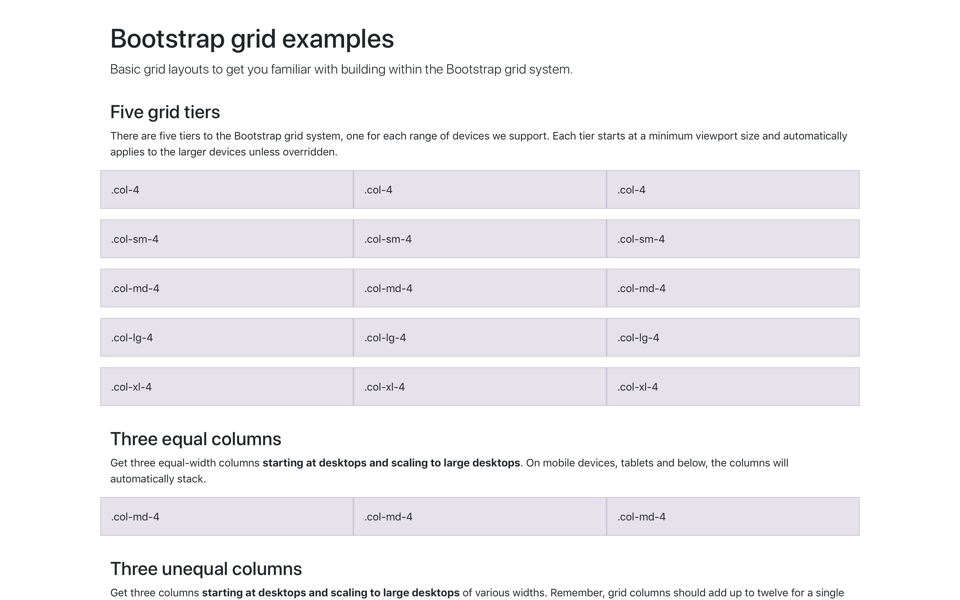
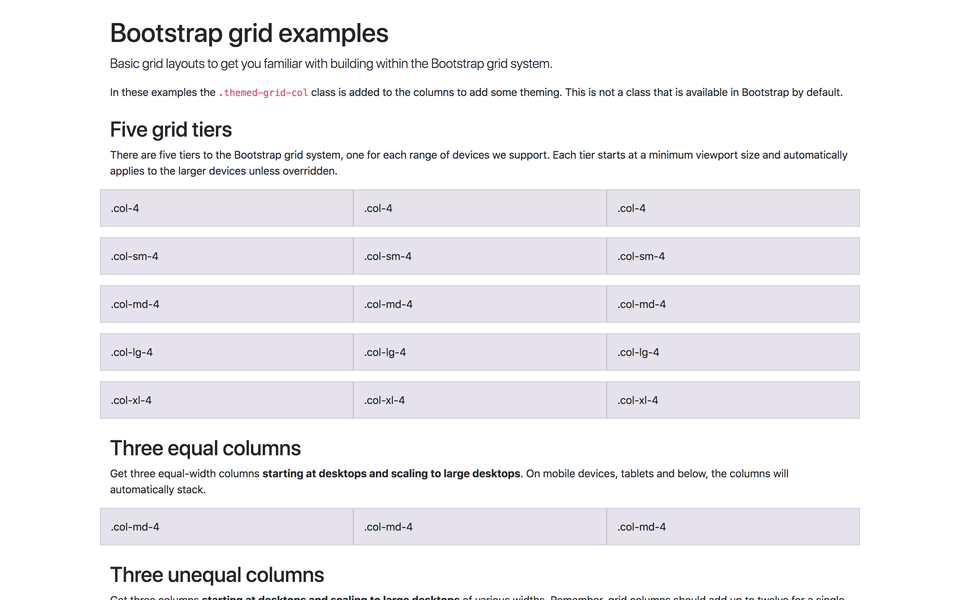
Improve Grid examples. (#26808)
Removes the grid.css file of the grid example and makes use of utility classes

Changed region(s): [[0.0938, 0.03, 0.9062, 1.0]]

diff --git a/site/docs/4.1/examples/grid/index.html b/site/docs/4.1/examples/grid/index.html
@@ -16,118 +16,122 @@
     <link href="grid.css" rel="stylesheet">
   </head>
 
-  <body>
+  <body class="py-4">
     <div class="container">
 
       <h1>Bootstrap grid examples</h1>
       <p class="lead">Basic grid layouts to get you familiar with building within the Bootstrap grid system.</p>
+      <p>In these examples the <code>.themed-grid-col</code> class is added to the columns to add some theming. This is not a class that is available in Bootstrap by default.</p>
 
-      <h2>Five grid tiers</h2>
+      <h2 class="mt-4">Five grid tiers</h2>
       <p>There are five tiers to the Bootstrap grid system, one for each range of devices we support. Each tier starts at a minimum viewport size and automatically applies to the larger devices unless overridden.</p>
 
-      <div class="row">
-        <div class="col-4">.col-4</div>
-        <div class="col-4">.col-4</div>
-        <div class="col-4">.col-4</div>
+      <div class="row mb-3">
+        <div class="col-4 themed-grid-col">.col-4</div>
+        <div class="col-4 themed-grid-col">.col-4</div>
+        <div class="col-4 themed-grid-col">.col-4</div>
       </div>
 
-      <div class="row">
-        <div class="col-sm-4">.col-sm-4</div>
-        <div class="col-sm-4">.col-sm-4</div>
-        <div class="col-sm-4">.col-sm-4</div>
+      <div class="row mb-3">
+        <div class="col-sm-4 themed-grid-col">.col-sm-4</div>
+        <div class="col-sm-4 themed-grid-col">.col-sm-4</div>
+        <div class="col-sm-4 themed-grid-col">.col-sm-4</div>
       </div>
 
-      <div class="row">
-        <div class="col-md-4">.col-md-4</div>
-        <div class="col-md-4">.col-md-4</div>
-        <div class="col-md-4">.col-md-4</div>
+      <div class="row mb-3">
+        <div class="col-md-4 themed-grid-col">.col-md-4</div>
+        <div class="col-md-4 themed-grid-col">.col-md-4</div>
+        <div class="col-md-4 themed-grid-col">.col-md-4</div>
       </div>
 
-      <div class="row">
-        <div class="col-lg-4">.col-lg-4</div>
-        <div class="col-lg-4">.col-lg-4</div>
-        <div class="col-lg-4">.col-lg-4</div>
+      <div class="row mb-3">
+        <div class="col-lg-4 themed-grid-col">.col-lg-4</div>
+        <div class="col-lg-4 themed-grid-col">.col-lg-4</div>
+        <div class="col-lg-4 themed-grid-col">.col-lg-4</div>
       </div>
 
-      <div class="row">
-        <div class="col-xl-4">.col-xl-4</div>
-        <div class="col-xl-4">.col-xl-4</div>
-        <div class="col-xl-4">.col-xl-4</div>
+      <div class="row mb-3">
+        <div class="col-xl-4 themed-grid-col">.col-xl-4</div>
+        <div class="col-xl-4 themed-grid-col">.col-xl-4</div>
+        <div class="col-xl-4 themed-grid-col">.col-xl-4</div>
       </div>
 
-      <h2>Three equal columns</h2>
+      <h2 class="mt-4">Three equal columns</h2>
       <p>Get three equal-width columns <strong>starting at desktops and scaling to large desktops</strong>. On mobile devices, tablets and below, the columns will automatically stack.</p>
-      <div class="row">
-        <div class="col-md-4">.col-md-4</div>
-        <div class="col-md-4">.col-md-4</div>
-        <div class="col-md-4">.col-md-4</div>
+      <div class="row mb-3">
+        <div class="col-md-4 themed-grid-col">.col-md-4</div>
+        <div class="col-md-4 themed-grid-col">.col-md-4</div>
+        <div class="col-md-4 themed-grid-col">.col-md-4</div>
       </div>
 
-      <h2>Three unequal columns</h2>
+      <h2 class="mt-4">Three unequal columns</h2>
       <p>Get three columns <strong>starting at desktops and scaling to large desktops</strong> of various widths. Remember, grid columns should add up to twelve for a single horizontal block. More than that, and columns start stacking no matter the viewport.</p>
-      <div class="row">
-        <div class="col-md-3">.col-md-3</div>
-        <div class="col-md-6">.col-md-6</div>
-        <div class="col-md-3">.col-md-3</div>
+      <div class="row mb-3">
+        <div class="col-md-3 themed-grid-col">.col-md-3</div>
+        <div class="col-md-6 themed-grid-col">.col-md-6</div>
+        <div class="col-md-3 themed-grid-col">.col-md-3</div>
       </div>
 
-      <h2>Two columns</h2>
+      <h2 class="mt-4">Two columns</h2>
       <p>Get two columns <strong>starting at desktops and scaling to large desktops</strong>.</p>
-      <div class="row">
-        <div class="col-md-8">.col-md-8</div>
-        <div class="col-md-4">.col-md-4</div>
+      <div class="row mb-3">
+        <div class="col-md-8 themed-grid-col">.col-md-8</div>
+        <div class="col-md-4 themed-grid-col">.col-md-4</div>
       </div>
 
-      <h2>Full width, single column</h2>
-      <p class="text-warning">No grid classes are necessary for full-width elements.</p>
+      <h2 class="mt-4">Full width, single column</h2>
+      <p class="text-warning">
+        No grid classes are necessary for full-width elements.
+      </p>
 
-      <hr>
+      <hr class="my-4">
 
-      <h2>Two columns with two nested columns</h2>
+      <h2 class="mt-4">Two columns with two nested columns</h2>
       <p>Per the documentation, nesting is easy—just put a row of columns within an existing column. This gives you two columns <strong>starting at desktops and scaling to large desktops</strong>, with another two (equal widths) within the larger column.</p>
       <p>At mobile device sizes, tablets and down, these columns and their nested columns will stack.</p>
-      <div class="row">
-        <div class="col-md-8">
-          .col-md-8
+      <div class="row mb-3">
+        <div class="col-md-8 themed-grid-col">
+          <div class="pb-3">
+            .col-md-8
+          </div>
           <div class="row">
-            <div class="col-md-6">.col-md-6</div>
-            <div class="col-md-6">.col-md-6</div>
+            <div class="col-md-6 themed-grid-col">.col-md-6</div>
+            <div class="col-md-6 themed-grid-col">.col-md-6</div>
           </div>
         </div>
-        <div class="col-md-4">.col-md-4</div>
+        <div class="col-md-4 themed-grid-col">.col-md-4</div>
       </div>
 
-      <hr>
+      <hr class="my-4">
 
-      <h2>Mixed: mobile and desktop</h2>
+      <h2 class="mt-4">Mixed: mobile and desktop</h2>
       <p>The Bootstrap v4 grid system has five tiers of classes: xs (extra small), sm (small), md (medium), lg (large), and xl (extra large). You can use nearly any combination of these classes to create more dynamic and flexible layouts.</p>
       <p>Each tier of classes scales up, meaning if you plan on setting the same widths for xs and sm, you only need to specify xs.</p>
-      <div class="row">
-        <div class="col-12 col-md-8">.col-12 .col-md-8</div>
-        <div class="col-6 col-md-4">.col-6 .col-md-4</div>
+      <div class="row mb-3">
+        <div class="col-12 col-md-8 themed-grid-col">.col-12 .col-md-8</div>
+        <div class="col-6 col-md-4 themed-grid-col">.col-6 .col-md-4</div>
       </div>
-      <div class="row">
-        <div class="col-6 col-md-4">.col-6 .col-md-4</div>
-        <div class="col-6 col-md-4">.col-6 .col-md-4</div>
-        <div class="col-6 col-md-4">.col-6 .col-md-4</div>
+      <div class="row mb-3">
+        <div class="col-6 col-md-4 themed-grid-col">.col-6 .col-md-4</div>
+        <div class="col-6 col-md-4 themed-grid-col">.col-6 .col-md-4</div>
+        <div class="col-6 col-md-4 themed-grid-col">.col-6 .col-md-4</div>
       </div>
-      <div class="row">
-        <div class="col-6">.col-6</div>
-        <div class="col-6">.col-6</div>
+      <div class="row mb-3">
+        <div class="col-6 themed-grid-col">.col-6</div>
+        <div class="col-6 themed-grid-col">.col-6</div>
       </div>
 
-      <hr>
+      <hr class="my-4">
 
-      <h2>Mixed: mobile, tablet, and desktop</h2>
-      <p></p>
-      <div class="row">
-        <div class="col-12 col-sm-6 col-lg-8">.col-12 .col-sm-6 .col-lg-8</div>
-        <div class="col-6 col-lg-4">.col-6 .col-lg-4</div>
+      <h2 class="mt-4">Mixed: mobile, tablet, and desktop</h2>
+      <div class="row mb-3">
+        <div class="col-12 col-sm-6 col-lg-8 themed-grid-col">.col-12 .col-sm-6 .col-lg-8</div>
+        <div class="col-6 col-lg-4 themed-grid-col">.col-6 .col-lg-4</div>
       </div>
-      <div class="row">
-        <div class="col-6 col-sm-4">.col-6 .col-sm-4</div>
-        <div class="col-6 col-sm-4">.col-6 .col-sm-4</div>
-        <div class="col-6 col-sm-4">.col-6 .col-sm-4</div>
+      <div class="row mb-3">
+        <div class="col-6 col-sm-4 themed-grid-col">.col-6 .col-sm-4</div>
+        <div class="col-6 col-sm-4 themed-grid-col">.col-6 .col-sm-4</div>
+        <div class="col-6 col-sm-4 themed-grid-col">.col-6 .col-sm-4</div>
       </div>
 
     </div> <!-- /container -->

diff --git a/site/docs/4.1/examples/grid/grid.css b/site/docs/4.1/examples/grid/grid.css
@@ -1,27 +1,6 @@
-body {
-  padding-top: 2rem;
-  padding-bottom: 2rem;
-}
-
-h3 {
-  margin-top: 2rem;
-}
-
-.row {
-  margin-bottom: 1rem;
-}
-.row .row {
-  margin-top: 1rem;
-  margin-bottom: 0;
-}
-[class*="col-"] {
-  padding-top: 1rem;
-  padding-bottom: 1rem;
+.themed-grid-col {
+  padding-top: 15px;
+  padding-bottom: 15px;
   background-color: rgba(86, 61, 124, .15);
   border: 1px solid rgba(86, 61, 124, .2);
-}
-
-hr {
-  margin-top: 2rem;
-  margin-bottom: 2rem;
 }